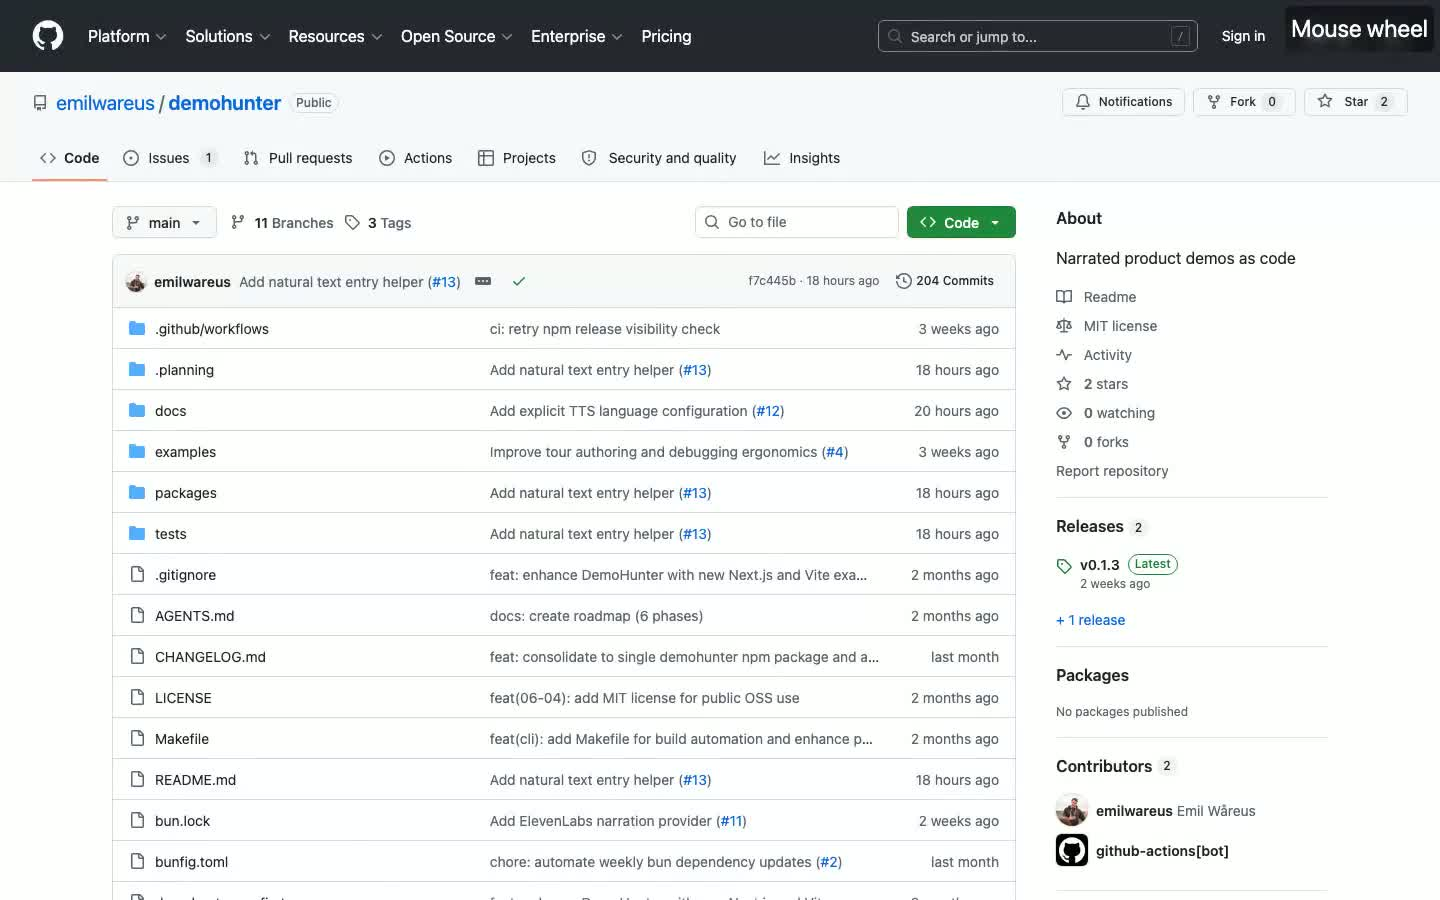
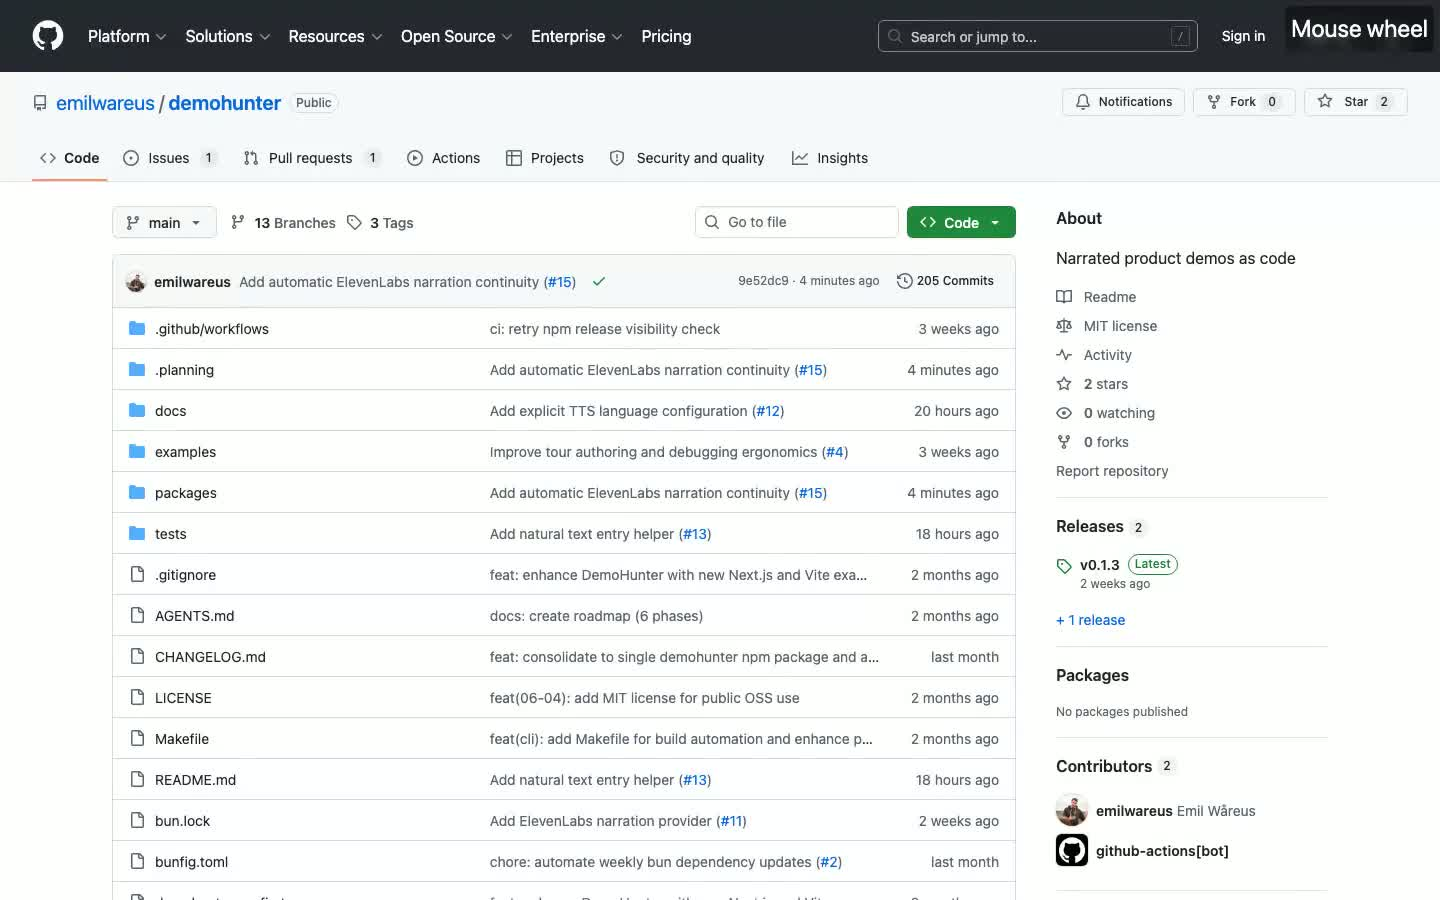
Regenerate showcase with ElevenLabs narration

diff --git a/demohunter.config.ts b/demohunter.config.ts
@@ -1,4 +1,17 @@
 export default {
   baseURL: "https://github.com/emilwareus/demohunter",
   viewport: { width: 1440, height: 900 },
+  tts: {
+    provider: "elevenlabs",
+    voice: "hpp4J3VqNfWAUOO0d1Us",
+    model: "eleven_multilingual_v2",
+    format: "mp3_44100_128",
+    instructions: "Speak clearly, confidently, and naturally for a polished product documentation demo.",
+    voiceSettings: {
+      stability: 0.55,
+      similarityBoost: 0.85,
+      style: 0.12,
+      useSpeakerBoost: true,
+    },
+  },
 };

diff --git a/.planning/quick/260612-jackson-demohunter-github-demo/SUMMARY.md b/.planning/quick/260612-jackson-demohunter-github-demo/SUMMARY.md
@@ -10,10 +10,12 @@ Generated a short DemoHunter GitHub demo that scrolls the README, pitches local-
 
 Added the generated demo as a README showcase with links to the 1.25x video, generated output directory, and tour source.
 
+Regenerated the committed demo output with ElevenLabs Bella narration (`eleven_multilingual_v2`, `mp3_44100_128`) after rebasing on latest `origin/main`.
+
 Artifacts:
 
-- `.demohunter/demohunter-github/video.mp4` - original DemoHunter output, 40.68 seconds.
-- `.demohunter/demohunter-github/video-1.25x.mp4` - requested 1.25x export, 32.60 seconds.
+- `.demohunter/demohunter-github/video.mp4` - original DemoHunter output, 40.56 seconds.
+- `.demohunter/demohunter-github/video-1.25x.mp4` - requested 1.25x export, 32.48 seconds.
 
 Verification:
 

diff --git a/.planning/STATE.md b/.planning/STATE.md
@@ -43,7 +43,7 @@ Progress: [██████████] 100%
 
 | Date | ID | Task | Summary |
 | --- | --- | --- | --- |
-| 2026-06-12 | 260612-jackson | Generate DemoHunter GitHub demo | Added a root DemoHunter tour for the GitHub README and example source flow, generated the full `.demohunter/demohunter-github/video.mp4`, and exported a 1.25x `video-1.25x.mp4` at 32.60 seconds. |
+| 2026-06-12 | 260612-jackson | Generate DemoHunter GitHub demo | Added a root DemoHunter tour for the GitHub README and example source flow, regenerated it with ElevenLabs Bella narration, and exported a 1.25x `video-1.25x.mp4` at 32.48 seconds. |
 | 2026-06-12 | 260612-frj | Implement automatic ElevenLabs narration continuity | Added automatic adjacent narration context for compatible ElevenLabs clips, serialized `previous_text` and `next_text`, skipped unsupported `eleven_v3` stitching, and verified with focused tests, typecheck, and full verification. |
 | 2026-06-11 | 260611-lsi | Review and fix natural text entry implementation until clean | Ran full verification and iterative subagent review, added strict type-text replay events, hardened runtime validation, preserved sleep-only type compatibility, and added SDK/CLI consumer declaration fixtures. |
 | 2026-06-11 | 260611-l8l | Add natural text entry API for narrated typing | Added `typeText` inside `narrateWhile` with deterministic paced Playwright typing, replay timing support, public types, docs, and focused runtime/replay/type tests. |